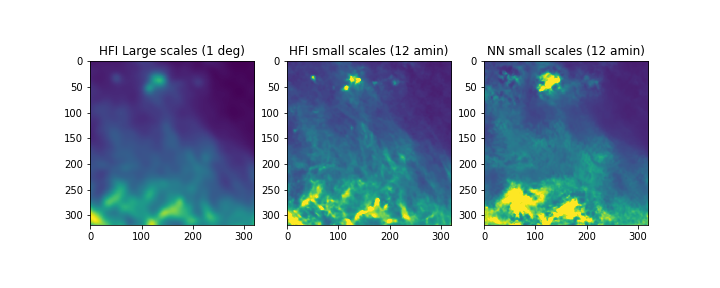
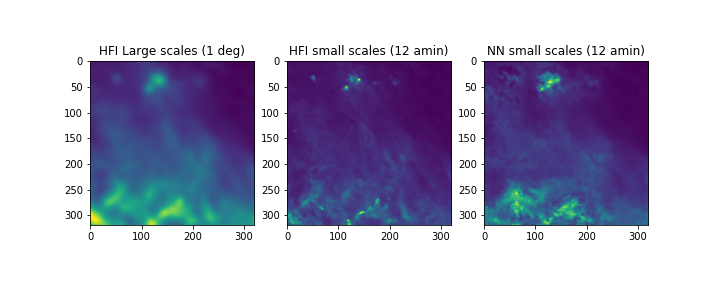
update notes

Changed region(s): [[0.6722, 0.1875, 0.9167, 0.7812], [0.3972, 0.1875, 0.6417, 0.7812]]

diff --git a/forse/notes/notes.md b/forse/notes/notes.md
@@ -4,7 +4,7 @@
 
 <u>Work in progress codes are on the Github ForSe repository in the `workinprog` branch</u>
 
-*Last update 2020 March 30th*
+*Last update 2020 April 1st*
 
 ------
 
@@ -40,6 +40,14 @@ To produce the training set we are considering the regions where the signal to n
   <img src="training_exp.png" alt="img" style="zoom:50%;" />
 
 * Another file with 358 patches of dimension 20°x20° and 320x320 pixels is in the same folder here: `training_set_358patches_20x20deg_T_HR12amin_LR1deg_Npix320_mask8.npy`
+
+***2020 April 2nd (Nicoletta)***
+
+I've found a bug in the way map with 320 pixels where generated (there was no correspondance with the mask due to a problem with the random seed I was passing). Now it has been corrected, there are few new files in the training folder:
+
+1. `training_set_HFI_359patches_20x20deg_T_HR12amin_LR1deg_Npix320_mask8.npy`which has 359 patches from Planck T map at 353 GHz at 1deg and 12arcmin and can be used for train
+2. `test_set_HFI_178patches_20x20deg_T_HR12amin_LR1deg_Npix320_mask8.npy`178 patches from HFI that can be used to test the NN
+3. `test_set_PySM_178patches_20x20deg_T_HR12amin_LR1deg_Npix320_mask8.npy`same patches as the file before (same location) but taken from the PySM map at 12arcmin and 1deg.
 
 ------
 
@@ -110,11 +118,19 @@ The validation of results is in`test_dcgan.ipynb`
 
 ***2020 March 30th (Nicoletta)***
 
-*Note: I've check whether it makes sense to use the difference between low res and high res maps instead of the ratio, but from a visual inspection of the images it doesn't seem to make much difference. Therefore I keep going with the ratio. One thing that should be adjusted is the way I normalize back the NN maps.*  
+Note: I've check whether it makes sense to use the difference between low res and high res maps instead of the ratio, but from a visual inspection of the images it doesn't seem to make much difference. Therefore I keep going with the ratio. 
 
-*I could also try to change the batch size, as well as the dropout and batch normalization. Also I can try again by giving to the discriminator both large and small scales!*
+***2020 March 31th (Nicoletta)***
 
-*Another thing is try to train the generator longer than discriminator*
+I've trained to train the network directly with images of 320x320 pixels, but it seems to crash due to a lack of memory
+
+------
+
+**TO DO**
+
+1. *One thing that should be adjusted is the way I normalize back the NN maps.*
+2. *I could also try to change the batch size, as well as the dropout and batch normalization. Also I can try again by giving to the discriminator both large and small scales!*
+3. *Another thing is try to train the generator longer than discriminator*
 
 ------
 
@@ -154,7 +170,7 @@ This is an example of image and power spectrum (patch 56):
 
 <img src="LP_hfi_spectrum.png" style="zoom:120%;" />
 
-Although the power spectrum doesn't look bad, I don't think the images look good, therefore optimization of the network is needed.
+Although the power spectrum doesn't look bad, I don't think the images look good, therefore optimization of the network is needed. Morover is some cases (as the one shown above) there is an excess of power at low ell.
 
 ------
 
@@ -193,7 +209,77 @@ Specification for the third run:
 - No label smoothing
 - swap at 10%
 
-The run has been submitted with slurm and it is currently on queue
+The run has been submitted with slurm using the `train_dcgan_on_cori.py`script in the usual folder
+
+Results do not improve, with superposition of the Minkoswski functionals at the level of 71, 78, 83%. 
+
+------
+
+**RUN #4**
+
+***2020 March 31st (Nicoletta)***
+
+In this run I check the effect of removing batch normalization and dropout.
+
+- `dcgan.train(epochs=100000, patches_file=patch_file, batch_size=32, save_interval=1000)`
+- `optimizer = Adam(0.0002, 0.5)`
+- No label smoothing
+- No swap 
+
+Also in this case it doesn't seem to improve with superposition at the level of 77, 83, 79%.
+
+I therefore restore the batch normalization (but I don't put the dropout in the convolutional layers as I think it is not correct having them, there is dropout only in the last fully connected layer)
+
+------
+
+**RUN #5**
+
+***2020 April 2nd (Nicoletta)***
+
+I try to train the network directly with images of 320x320 pixels, as the problem might be in the apodization. It seems to crash with batch size of 32 due to lack of memory. Therefore I had to reduce the batch size to 16.
+
+To train the NN I've used the new correct training set in `/global/homes/k/krach/scratch/NNforFG/ForSE/training_sets/` `training_set_HFI_359patches_20x20deg_T_HR12amin_LR1deg_Npix320_mask8.npy` (see section above)
+
+Since now at NERSC there is the possibility to run longer jobs in the Pacific night (from 5am to 5pm in Italy), I've run the job in these hours using the command `sleep time_in_sec && sbatch file.slurm` to delay the submission.
+
+The notebook to test results is in the usual folder in the file `test_large_patches.ipynb`
+
+**Results below are preliminary from Epoch=24000**
+
+I've valide results on the two test files, for HFI and PySM (`test_set_HFI_178patches_20x20deg_T_HR12amin_LR1deg_Npix320_mask8.npy` and `test_set_PySM_178patches_20x20deg_T_HR12amin_LR1deg_Npix320_mask8.npy`).
+
+I've also change the way I normalize back images. Now I first set the mean and standard deviation to be the same as the rescaled target distribution, then I normalize back with min/max:
+
+```python
+Ss_ratio_edges = np.array(Ss_ratio_edges)
+NNout_normed = np.copy(NNout)
+for i in range(len(NNout)):
+    NNout_normed[i] = 
+    (NNout_normed[i]-np.mean(NNout_normed[i])+np.mean(Ss_ratio_scaled[i]))/np.std(NNout_normed[i])*np.std(Ss_ratio_scaled[i])
+    NNout_normed[i] = (
+        rescale_min_max_back(NNout_normed[i], 
+        [(Ss_ratio_edges[i,0]), (Ss_ratio_edges[i,1])]))
+```
 
 
+
+Below images of the small scales only generated by the GAN for Planck test set (image 10):
+
+<img src="LP_NN_HFI.png" style="zoom:120%;" />
+
+And these are the minkoswki functionals, computed on all the 178 patches of the train set, which reach a superposition of 56, 63, 84%
+
+<img src="Minko_LP_HFI.png" style="zoom:100%;" />
+
+I also compare the results on PySM, considering the same patches for PySM and HFI (images 27 and 89):
+
+<img src="LP_PYSMvsPlanck.png" style="zoom:120%;" />
+
+And this is the comparison of Minkowski functionals:
+
+<img src="Minko_LP_PYSMvsPlanck.png" style="zoom:100%;" />
+
+I've computed also the spectra. The file are saved in `output_run5_planck_patches_iter24000.npz`
+
+<img src="LP_hfivspysm_spectrum29.png" style="zoom:80%;" /> <img src="LP_hfivspysm_spectrum89.png" style="zoom:80%;" />
 
